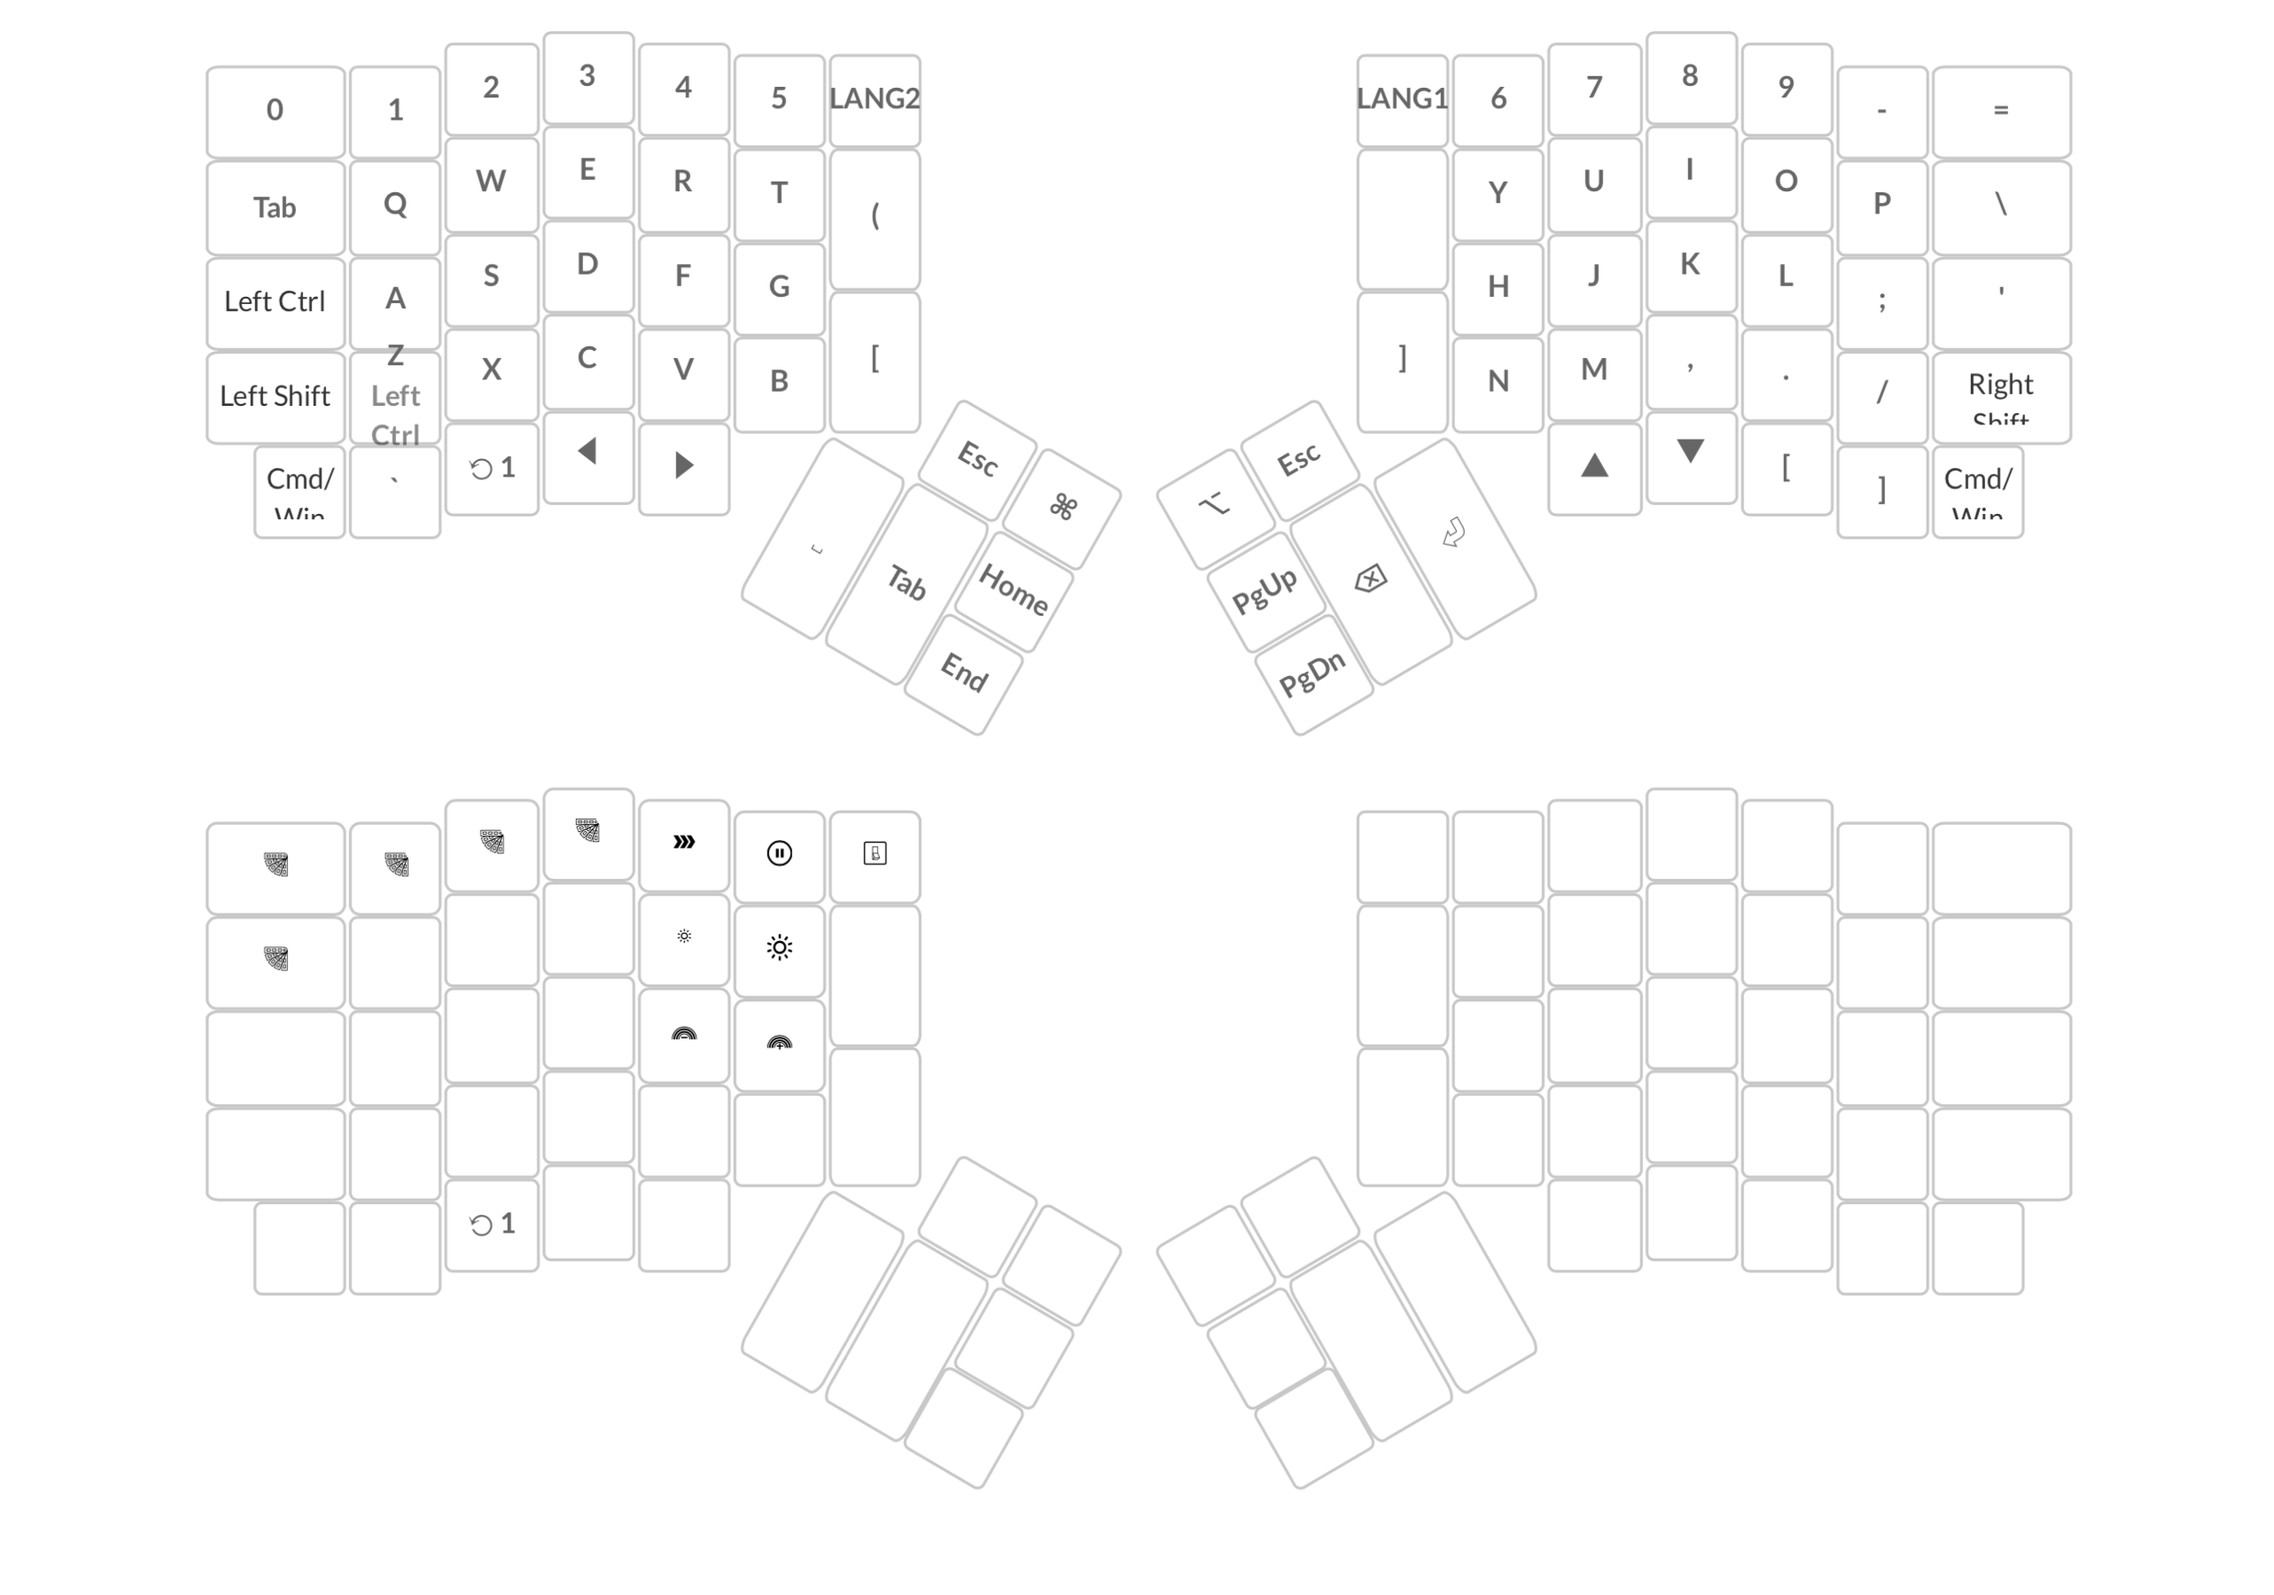
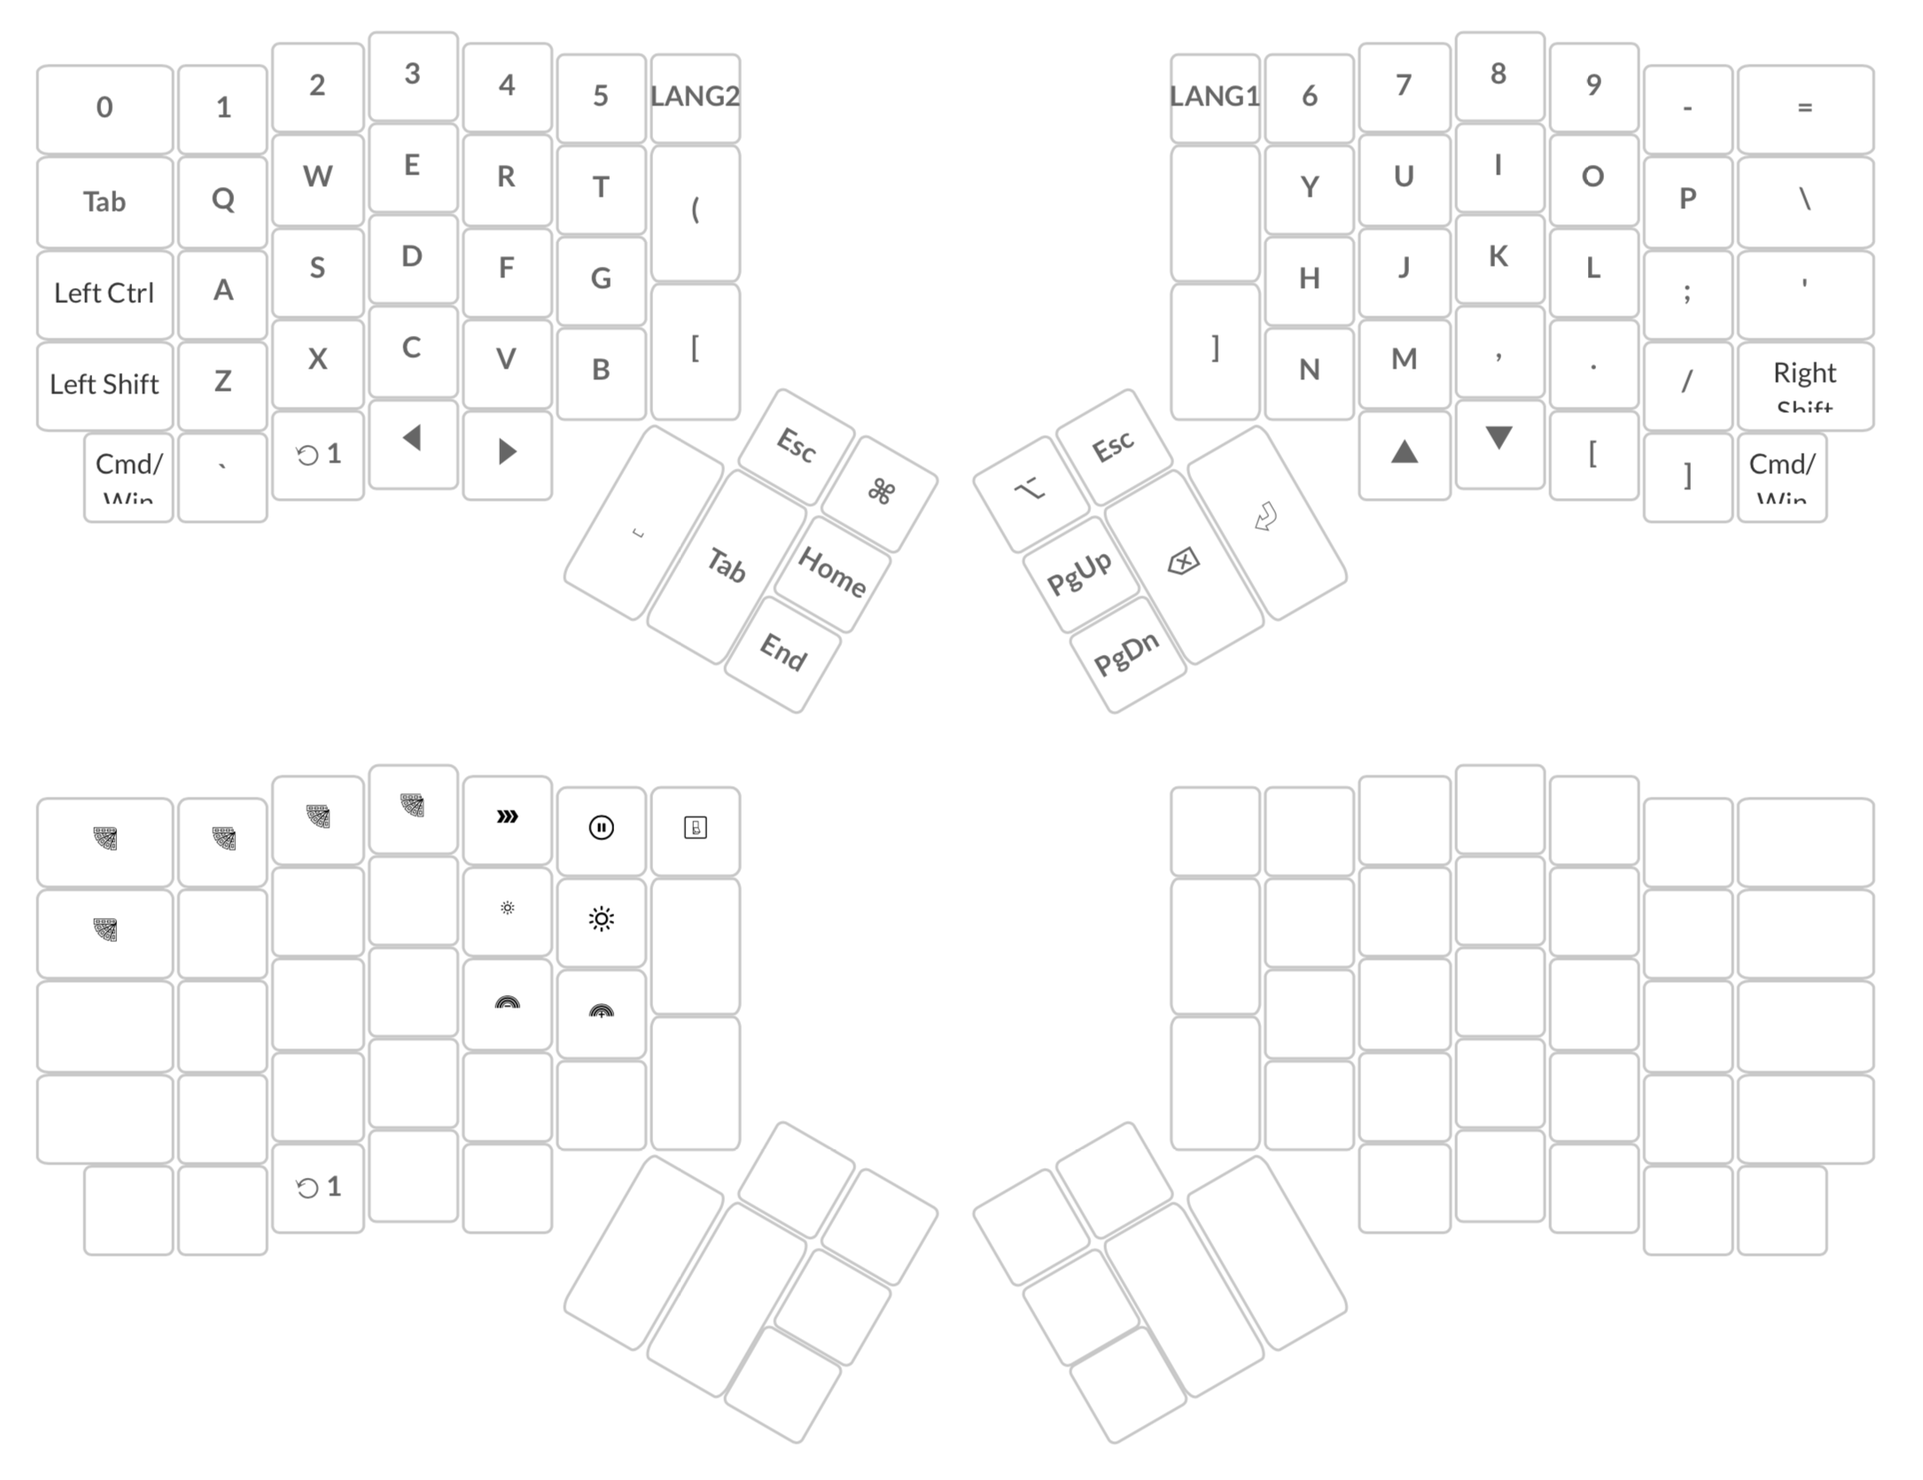
fix Z key

diff --git a/README.md b/README.md
@@ -1,3 +1,3 @@
 # ErgoDox キーマップ
 数字を0始まりにしてみたかっただけ。
-![キーマップ](https://user-images.githubusercontent.com/29699789/43820300-d4f04e32-9b20-11e8-92ed-61dcf8139d90.png)
+![キーマップ](https://user-images.githubusercontent.com/29699789/43820553-90dc04ec-9b21-11e8-823f-ed5f3a037e56.png)
